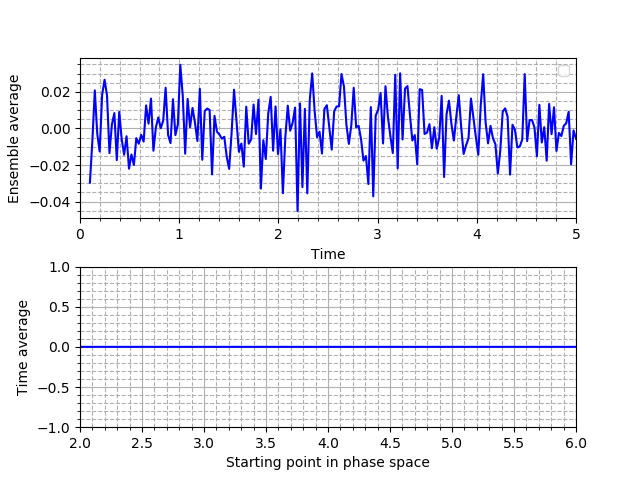
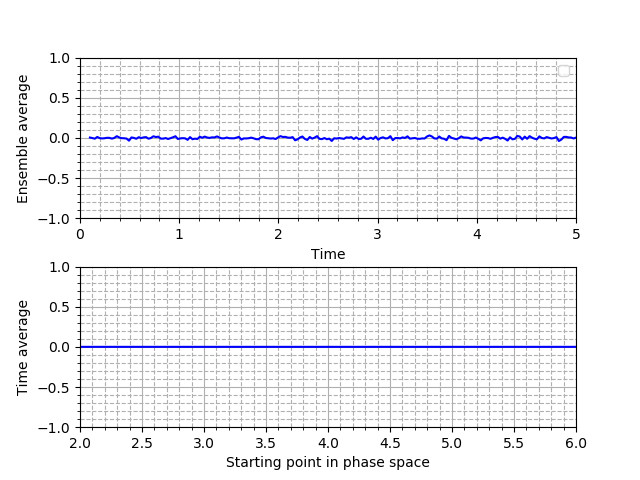
asdasd

diff --git a/home_problem_1/HW1_221.py b/home_problem_1/HW1_221.py
@@ -1,0 +1,38 @@
+import numpy as np
+import matplotlib.pyplot as plt
+from scipy.linalg import eig
+from random import *
+
+def main():
+    ''' Task 2 '''
+    # # # 1.a) # # #
+    W = [[1/4.0, 0, 1/8.0], [1/2.0, 1/2.0, 3/4.0], [1/4.0, 1/2.0, 1/8.0]]
+
+    # # # 1.b) # # #
+    distr_0 = [500, 300, 200]
+    distr_1 = np.dot(W, distr_0)
+    print('2.1b)', distr_1)
+
+    # # # 1.c) # # #
+    # W = np.array([[0, 0.25, 0.25], [1/2.0, 1/2.0, 0.25], [0.5, 0.25, 0.5]]) # From test exself.
+    eig_W_r, eig_vec_r = eig(W) # right eigenvalues/-vectors
+    max_ind = np.argmax(eig_W_r)  # index of eigenvalue with value 1
+    P_st = eig_vec_r[:, max_ind]
+    norm = np.sum(P_st)
+    P_st = P_st / norm
+    print('2.1c)', P_st, np.sum(P_st))
+    print('2.1c)', np.dot(W, P_st))
+
+
+    # # # 1.d) # # #
+    eig_values_left, eig_vec_l = eig(W, left=True, right=False) # left eigenvalues/-vectors
+    for i in range(len(W)):
+            print(eig_W_r[i])
+            a = np.array(eig_vec_r[:, i].reshape(3,1)) # enable mat mult
+            b = np.array(eig_vec_l[:, i].reshape(1,3))  # enable mat mult
+            B = np.dot(a, b)
+            print(B)
+
+
+if __name__ == '__main__':
+    main()

diff --git a/home_problem_1/HW1_222.py b/home_problem_1/HW1_222.py
@@ -1,0 +1,47 @@
+import numpy as np
+from scipy.linalg import eig
+from scipy.linalg import expm
+import matplotlib.pyplot as plt
+G = np.array([[-3, 4, 1],
+              [1, -5, 1],
+              [2, 1, -2]])
+
+''' a) Calculate the stationary state of G'''
+
+(lmbd, P) = eig(G, right=True)
+
+n_st = np.argmin(abs(lmbd))
+lmbd_st = lmbd[n_st]
+P_st = P[:, n_st]
+P_st = P_st/sum(P_st)
+print('P_st analytic: ', P_st)
+
+''' b) Time evolution of P '''
+
+P_0 = np.array([1, 0, 0])
+t_0 = 0
+t_f = 2.5
+dt = 0.01
+t = np.arange(t_0, t_f, dt)
+
+P = np.zeros([len(t), 3])
+for i in range(len(t)):
+    P[i, :] = np.dot(expm(t[i]*G), P_0)
+
+print('P_st numeric: ', P[-1, :])
+fig = plt.figure()
+ax = fig.add_subplot(111)
+ax.plot(t, P[:, 0], label='P_1', color='blue')
+ax.plot(t, P[:, 1], label='P_2', color='red')
+ax.plot(t, P[:, 2], label='P_3', color='green')
+ax.set_xlabel('Time')
+ax.set_ylabel('Probability')
+ax.set_xlim([t[0], t[-1]])
+ax.set_ylim([0, 1])
+ax.minorticks_on()
+ax.grid(True, which='major')
+ax.grid(True, which='minor', linestyle='--')
+ax.legend()
+fig.savefig('markov.png', bbox='tight')
+
+plt.show()

diff --git a/HW1_1.py b/HW1_1.py
@@ -73,6 +73,7 @@ def main():
     ax_b_ens.set_ylabel('Ensemble average')
     ax_b_ens.set_xlim([0, t_ens[-1]])
     ax_b_ens.minorticks_on()
+    ax_b_ens.set_ylim([-1, 1])
     ax_b_ens.grid(True, which='major')
     ax_b_ens.grid(True, which='minor', linestyle='--')
     ax_b_ens.legend()

diff --git a/home_problem_1/2220.py b/home_problem_1/2220.py
@@ -15,6 +15,7 @@ lmbd_st = lmbd[n_st]
 P_st = P[:, n_st]
 P_st = P_st/sum(P_st)
 print('P_st analytic: ', P_st)
+
 ''' b) Time evolution of P '''
 
 P_0 = np.array([1, 0, 0])
